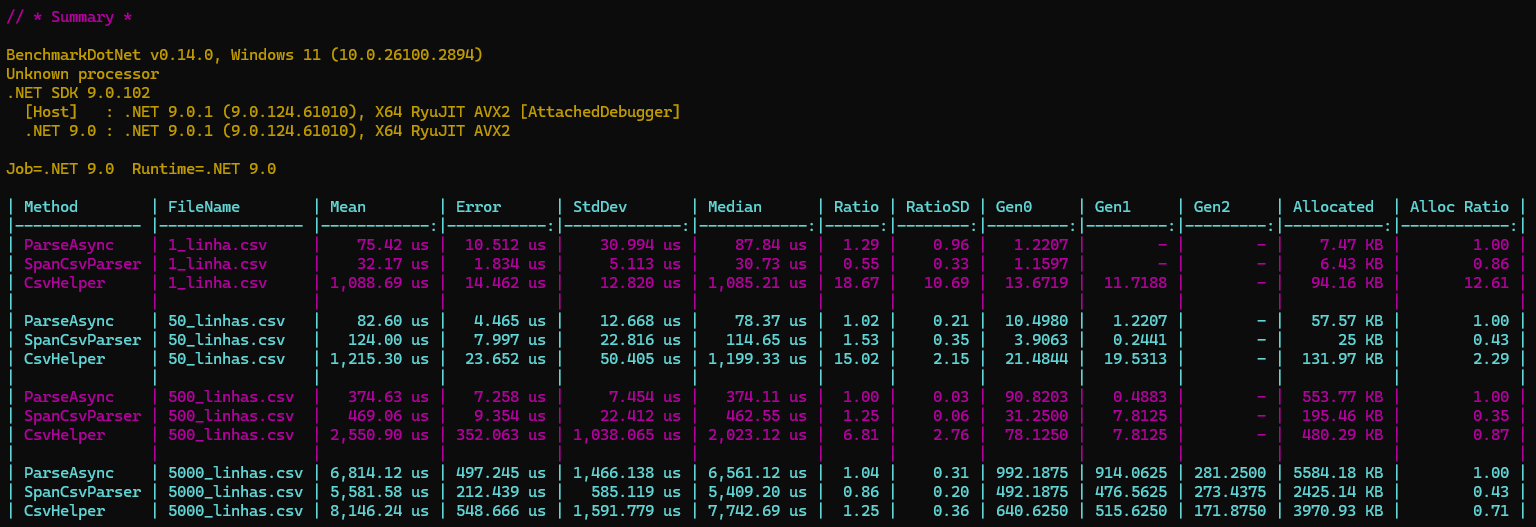
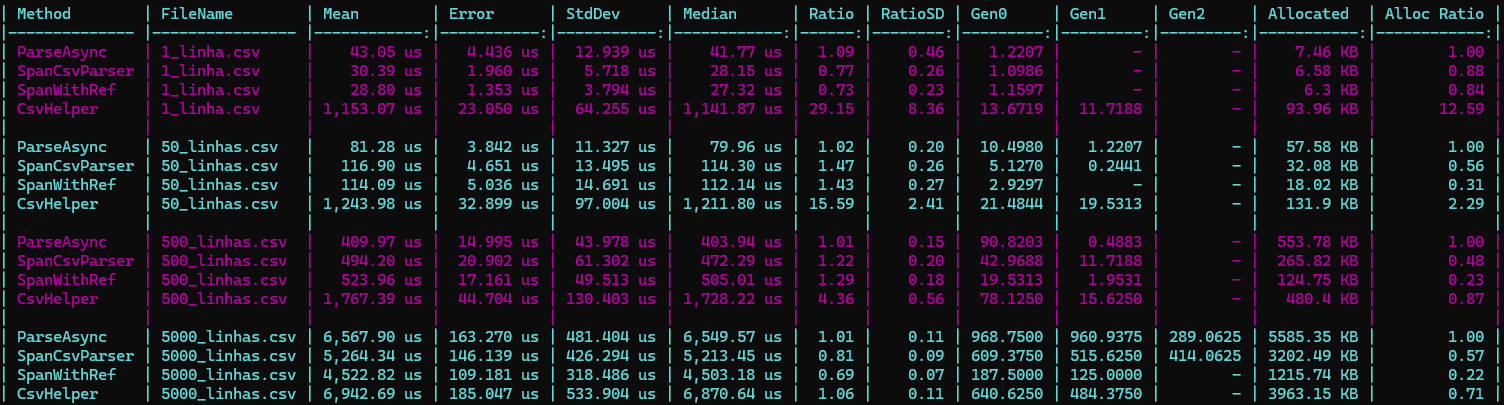
Fix typo;

diff --git a/src/SpanCsvParser/SpanCsvParser.cs b/src/SpanCsvParser/SpanCsvParser.cs
@@ -51,8 +51,7 @@ public static class SpanCsvParser<TObjeto>
         try
         {
             var arrLength = await ParseStream(arquivo, arrRetorno, callback, numeroColunas, cancellationToken);
-            var result = new TObjeto[arrLength];
-            return result[..arrLength];
+            return arrRetorno[..arrLength];
         }
         finally
         {
